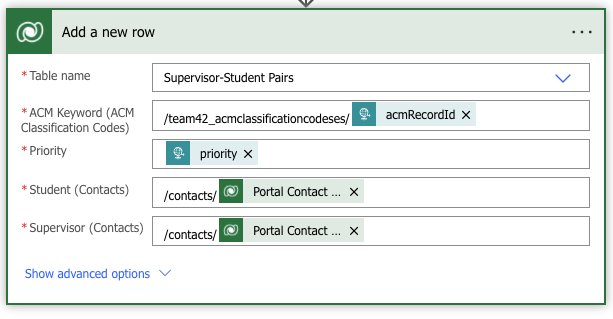
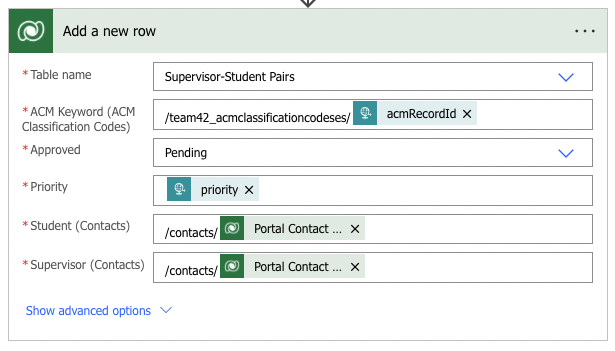
Supervised matching section

Changed region(s): [[0.0, 0.0, 1.0, 0.9875]]

diff --git a/index.html b/index.html
@@ -676,16 +676,28 @@
                   below.</p>
                 <img src="assets/img/implementation/matching/matching_page_initial.png" alt="">
                 <p>After the administrator clicks the button and the above described matching algorithm has taken place,
-                  the status label is updated, as seen below.</p>
+                  the status label is updated, as seen below.
+                </p>
                 <img src="assets/img/implementation/matching/matching_page_status_completed.png" alt="">
                 <p>As described in the above section, the results from the matching algorithm are inputted into the
                   'Supervisor-Student Pairs' table, which is viewable by the administrator. Here the matches can be
-                  reviewed and then approved or rejected. Since students and supervisors that have matches found for
-                  them have their response records set to 'Unavailable,' if a pair is accepted, nothing changes.
-                  However, if a pair is rejected by an administrator, the respective student and supervisor responses
-                  have their availability set back to 'Yes.' This allows them to be included in the matching algorithm
-                  when the administrator runs it again. The administrator should review matches and rerun the algorithm
-                  until they are completely satisfied with the outcome.</p>
+                  reviewed and then approved or rejected. When a pair record is editted as shown below, a PowerAutomate instant flow is run, which performs the following logic.</p>
+                  <img src="assets/img/implementation/matching/edit_status_of_pair.png" alt="">
+                <p>
+                  If a pair is rejected by an administrator, the involved student's availability is set to 'Yes' and if
+                  the supervisor's remaining capacity is less than their total capacity, the supervisor's availability
+                  is also set to 'Yes.'
+                </p>
+                <p>
+                  If a pair is instead accpeted by an administrator, if the supervior's remaining capacity is equal to
+                  0, the student's availability is set to 'Yes,' the supervisor's availability is set to 'No' and the
+                  pairs status is set to 'Rejected.' Otheriwise, the students availability is set to 'No' and the
+                  supervisor's remaining capacity is reduced by 1.
+                </p>
+                <p>
+                  The administrator should review matches and rerun the algorithm
+                  until they are completely satisfied with the outcome.
+                </p>
               </div>
             </div>
           </div>
